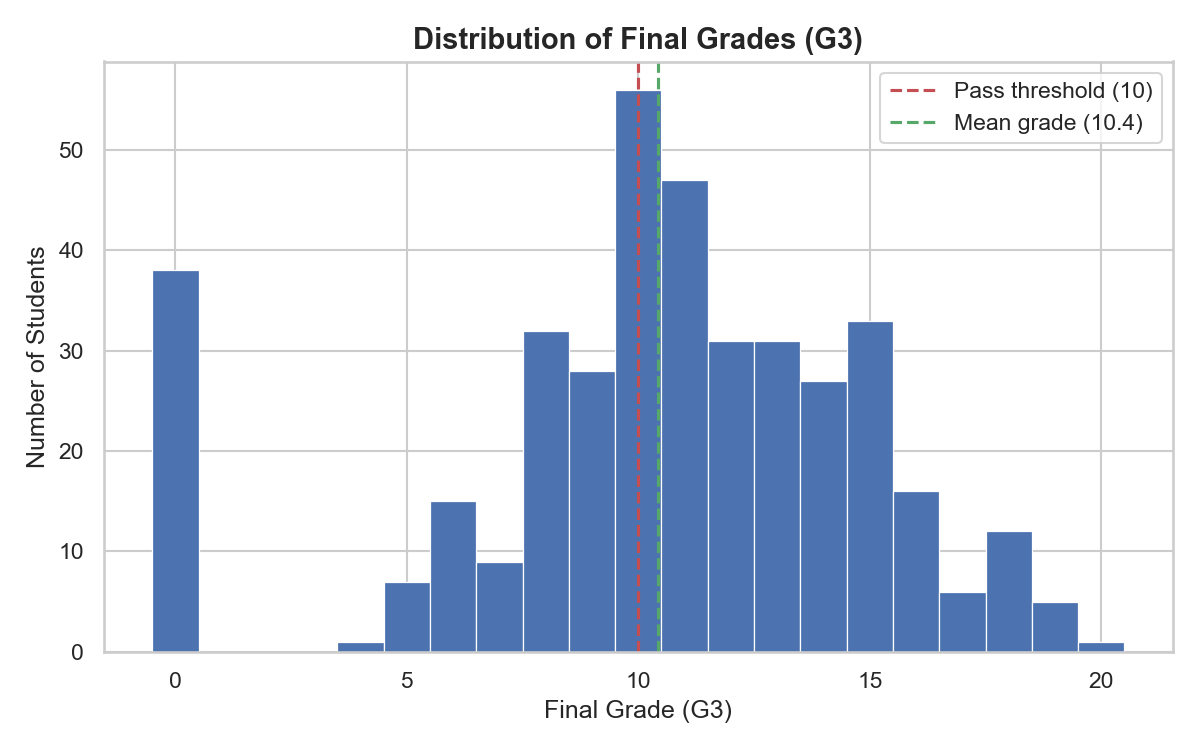
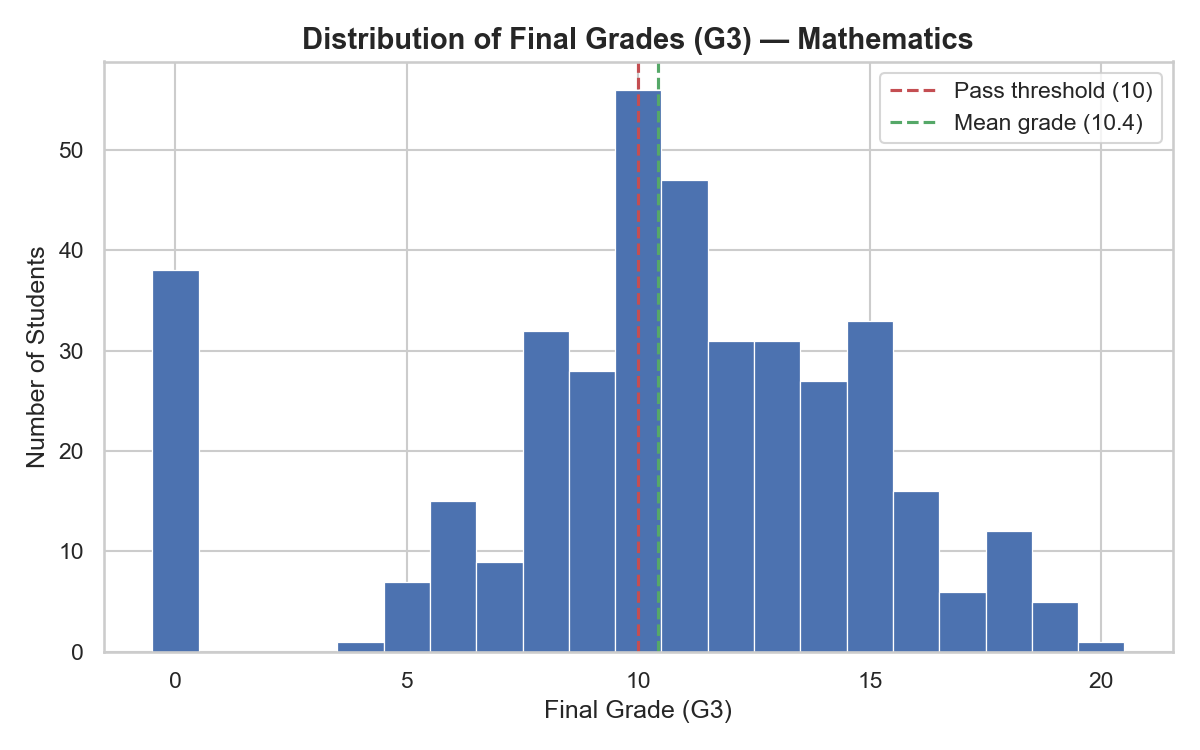
changed color of some plots

Changed region(s): [[0.2467, 0.0307, 0.8325, 0.092]]

diff --git a/scripts/por_phase2_plots.py b/scripts/por_phase2_plots.py
@@ -42,7 +42,7 @@ print()
 # ── PLOT 1: Distribution of Final Grades (G3) ─────────────────────────────────
 fig, ax = plt.subplots(figsize=(8, 5))
 ax.hist(df_raw["G3"], bins=21, range=(-0.5, 20.5),
-        color="#4C72B0", edgecolor="white", linewidth=0.6)
+        color="#55A868", edgecolor="white", linewidth=0.6)
 ax.axvline(x=10, color="#C44E52", linestyle="--", linewidth=1.5,
            label="Pass threshold (10)")
 ax.axvline(x=df_raw["G3"].mean(), color="#55A868", linestyle="--", linewidth=1.5,

diff --git a/scripts/mat_phase2_plots.py b/scripts/mat_phase2_plots.py
@@ -56,7 +56,7 @@ ax.axvline(x=10, color="#C44E52", linestyle="--", linewidth=1.5,
 ax.axvline(x=df_raw["G3"].mean(), color="#55A868", linestyle="--", linewidth=1.5,
            label=f"Mean grade ({df_raw['G3'].mean():.1f})")
 
-ax.set_title("Distribution of Final Grades (G3)", fontsize=14, fontweight="bold")
+ax.set_title("Distribution of Final Grades (G3) — Mathematics", fontsize=14, fontweight="bold")
 ax.set_xlabel(LABELS["G3"], fontsize=12)
 ax.set_ylabel("Number of Students", fontsize=12)
 ax.legend()
